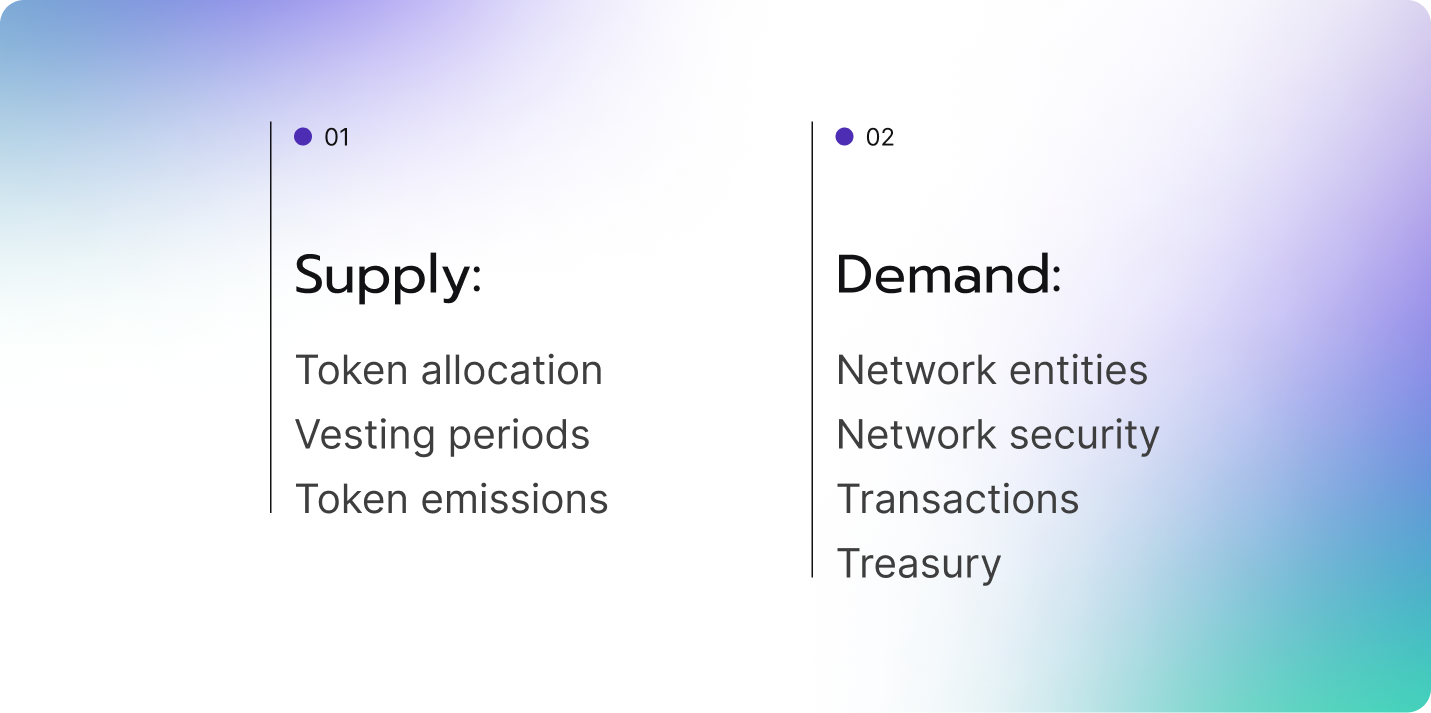
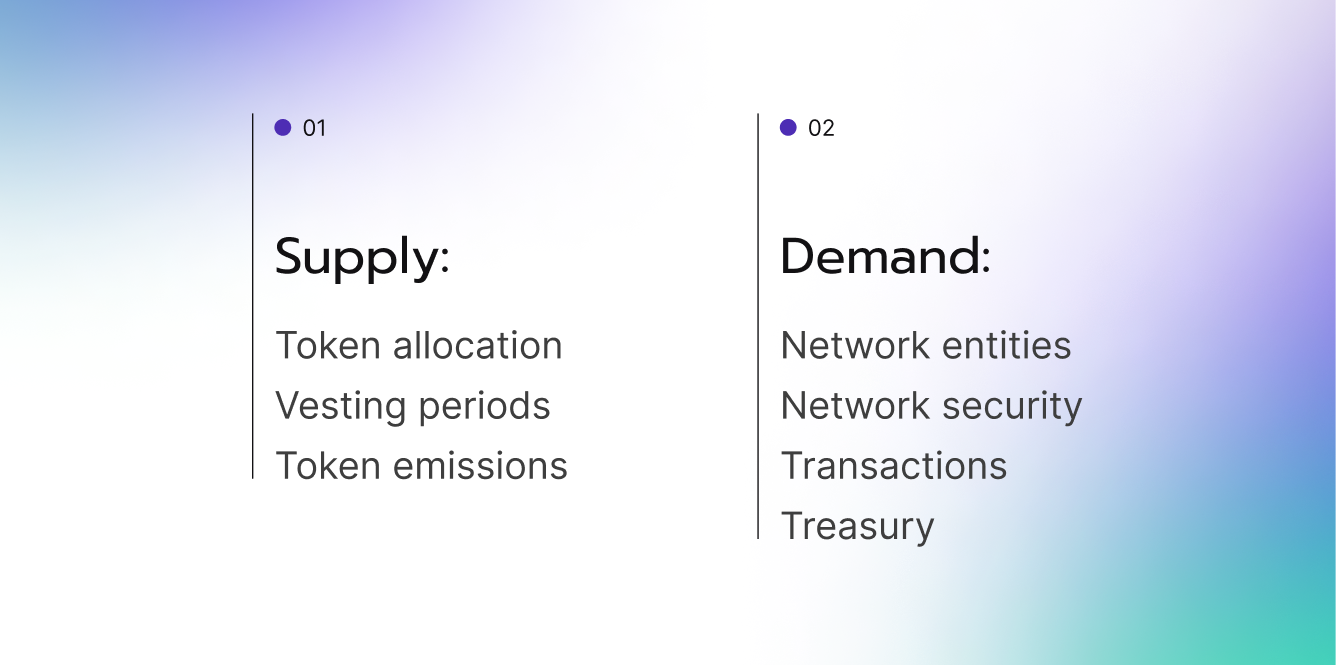
added border for image in 'Engineering Tokenomics...' article

diff --git a/src/content/articles.tsx b/src/content/articles.tsx
@@ -698,7 +698,7 @@ export const engineeringTokenomicsForTheLongRunArticleData: ArticleDataType = {
           <img
             src={supplyAndDemandSidesImg}
             alt="supply and demand sides description image"
-            className="without_margin_top"
+            className="without_margin_top with_border"
           />
           We approach tokenomics from both the supply and demand sides.
           <div className="text-separator" />
